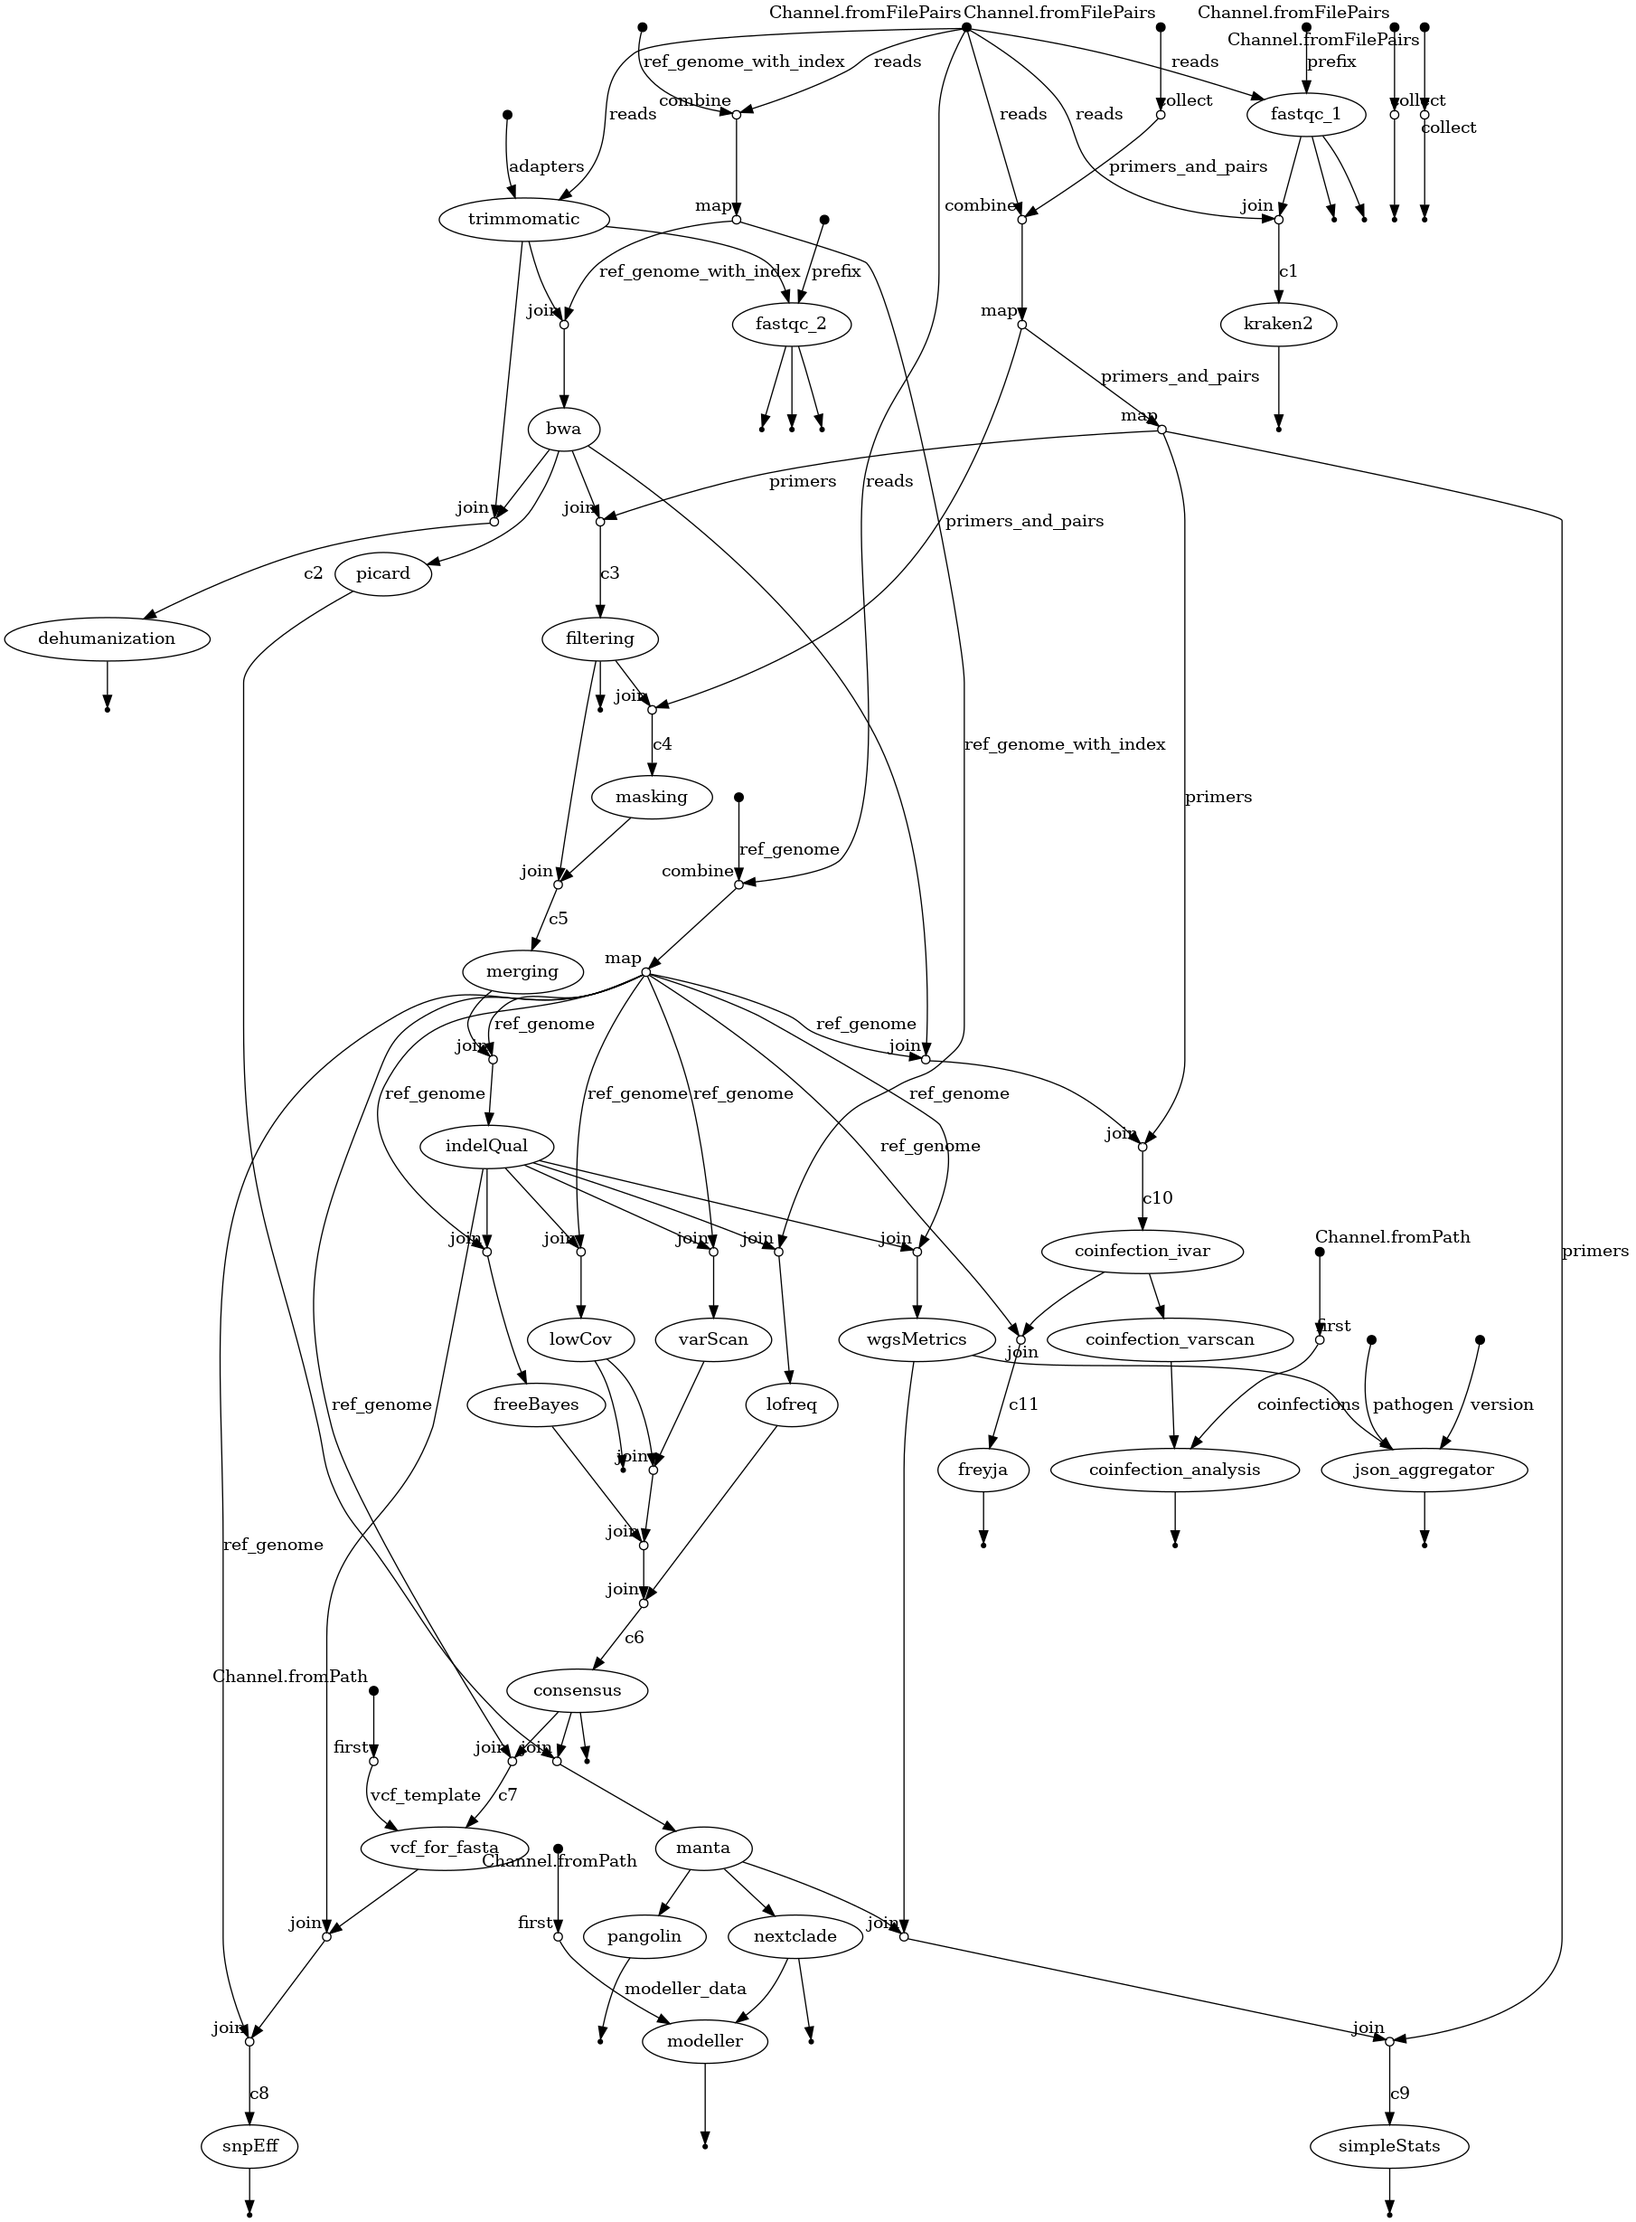
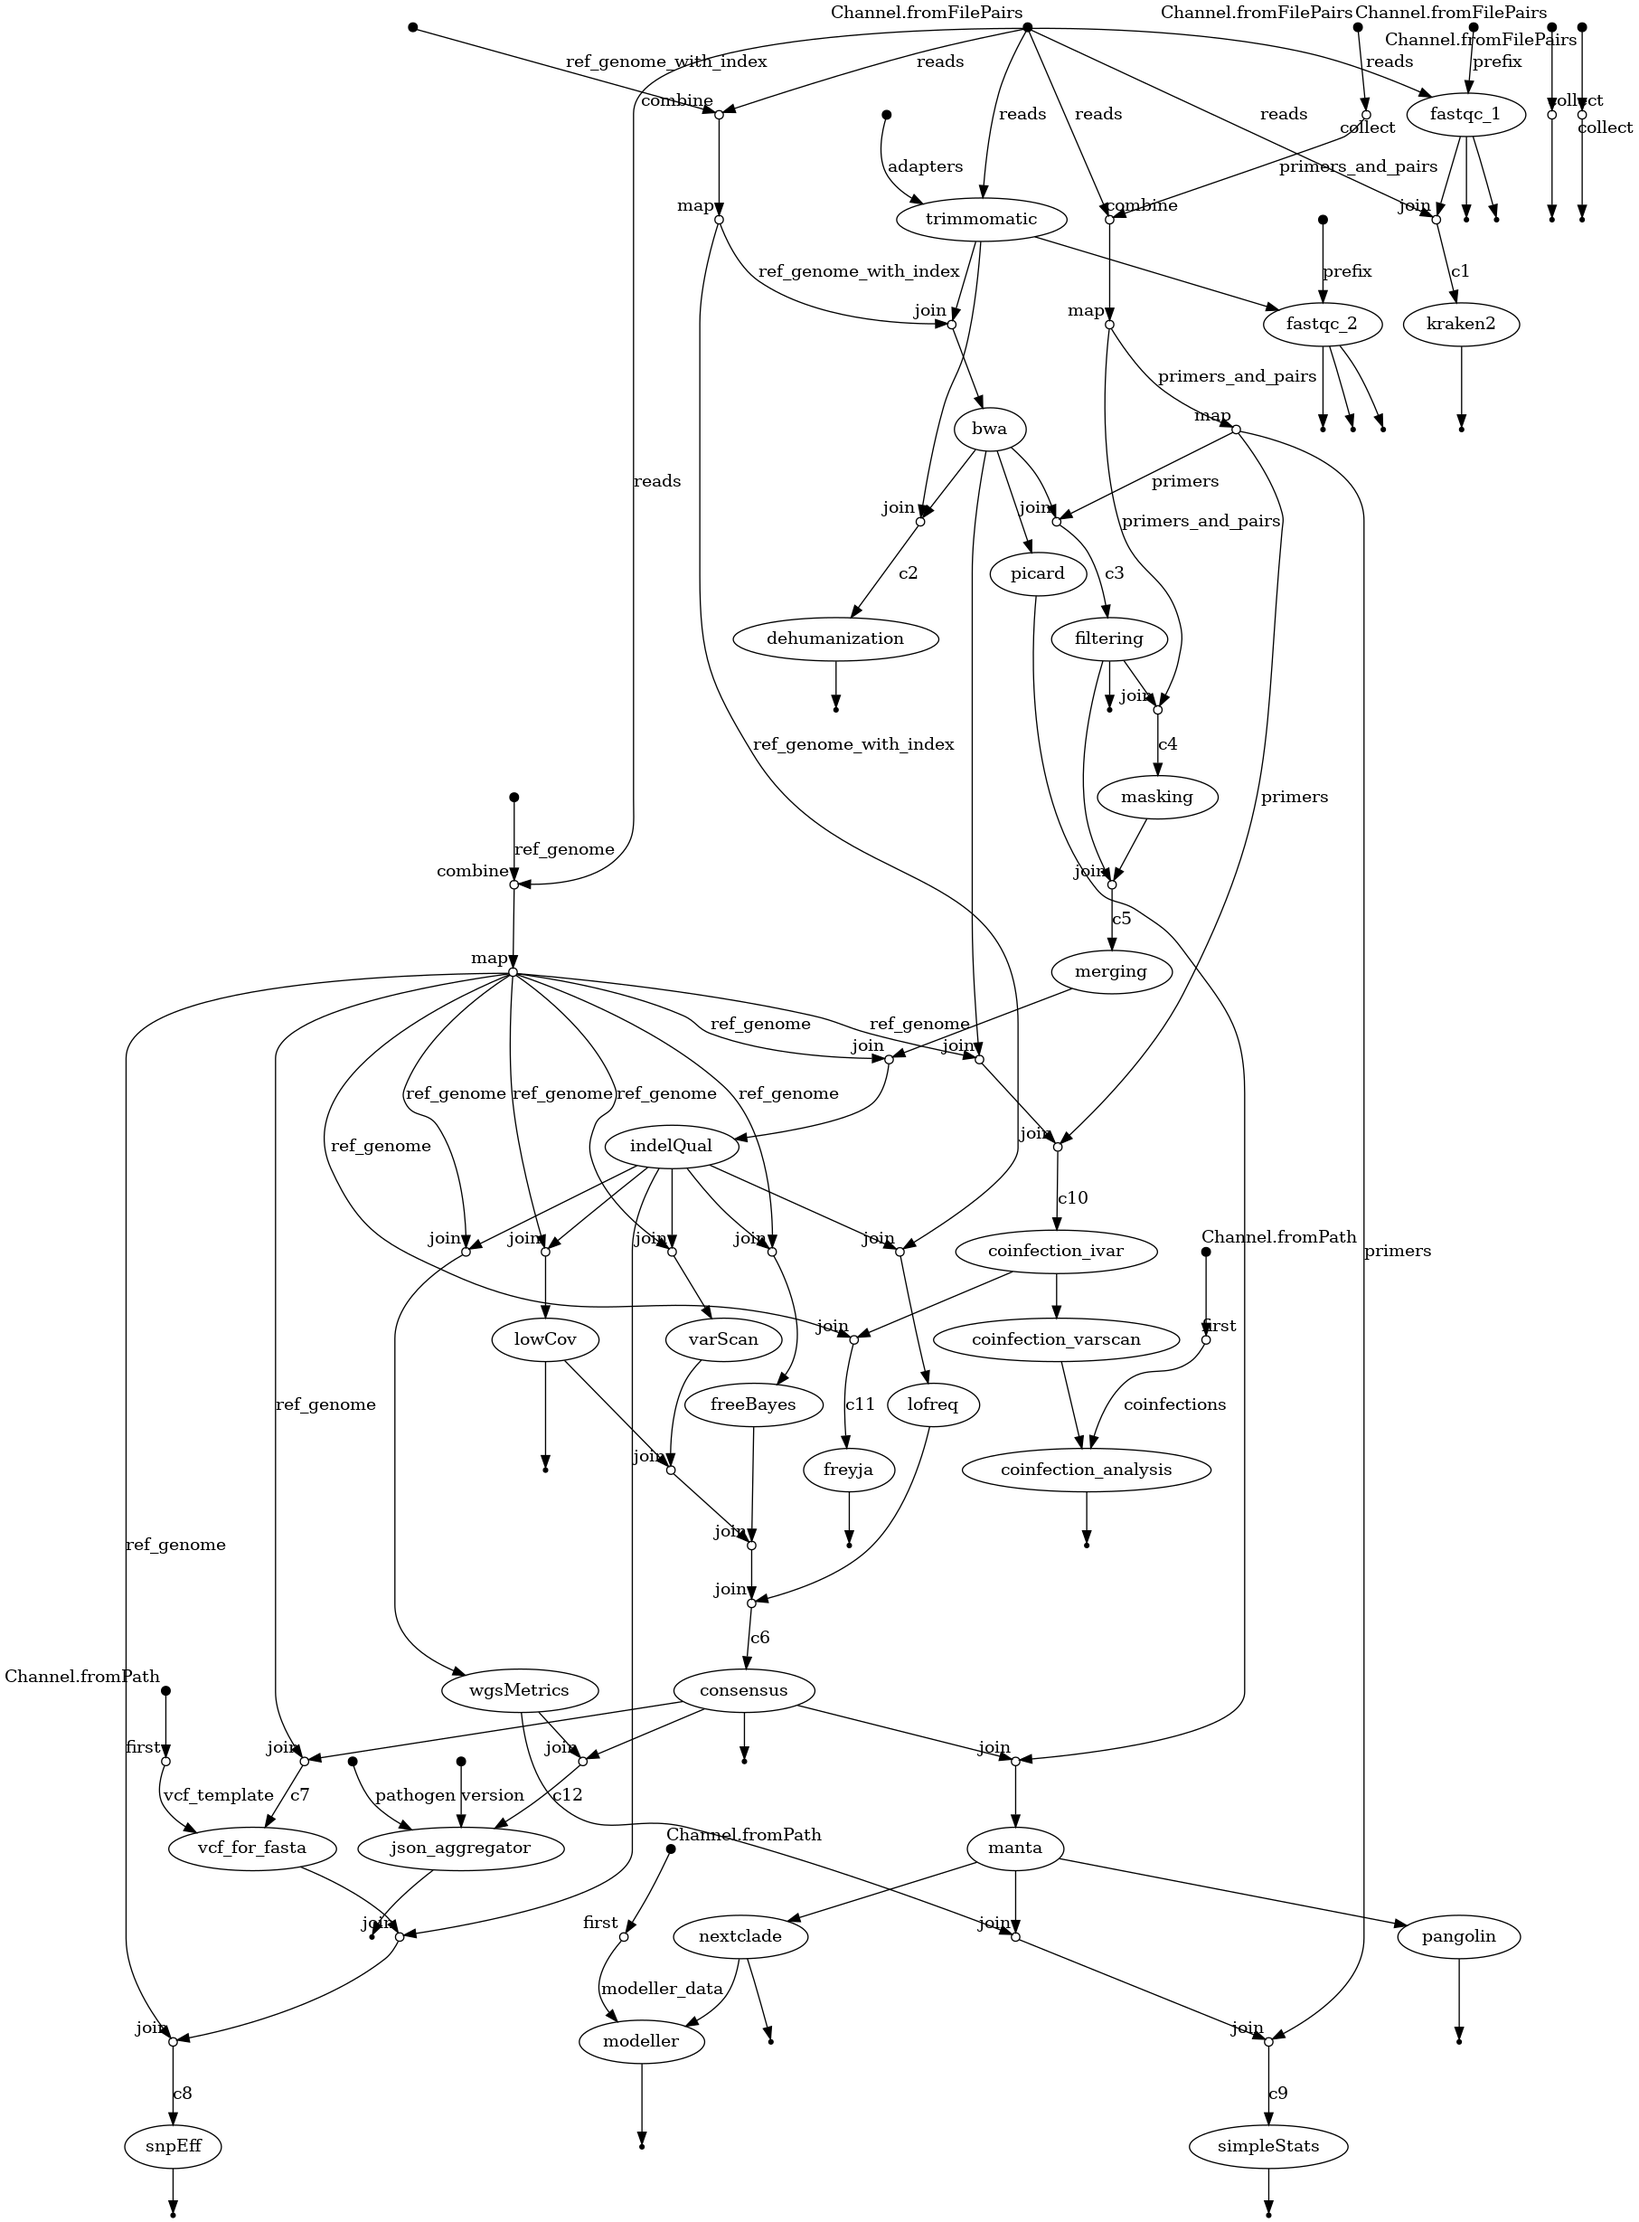
viral_genome_data/number_of_Ns_value and primer_usage_data added to output.json

diff --git a/bin/common/json_aggregator.py b/bin/common/json_aggregator.py
@@ -23,6 +23,7 @@ def json_aggregator(args):
     if output["output"]["pathogen"] == "sars2":
         output["output"]["sars_data"] = {}
 
+    # viral_genome_data
     with open(args.wgsMetrics) as f:
         wgsMetrics = json.load(f)
         average_coverage_value = wgsMetrics["average_coverage_value"]
@@ -38,6 +39,11 @@ def json_aggregator(args):
             output["output"]["viral_genome_data"]["coverage_barplot_data"].append({"segment_name": segment_name, "data_file_path": data_file_path})
     output["output"]["viral_genome_data"]["coverage_histogram_data"] = args.publish_dir + "/" + "coverage_histogram_data.tsv"
 
+    with open(args.consensus) as f:
+        consensus = json.load(f)
+        output["output"]["viral_genome_data"]['total_length_value'] = consensus['total_length_value']
+        output["output"]["viral_genome_data"]['number_of_Ns_value'] = consensus['number_of_Ns_value']
+
     with open("output.json", "w") as f:
         json.dump(output, f, indent=4)
 
@@ -50,6 +56,7 @@ def main():
     parser.add_argument('publish_dir', help="Publish directory")
     parser.add_argument('--wgsMetrics', help="WGS metrics file")
     parser.add_argument('--segment_bedgraphs_files', help="Segment bedgraphs files")
+    parser.add_argument('--consensus', help="JSON from consensus module")
     args = parser.parse_args()
 
     json_aggregator(args)
